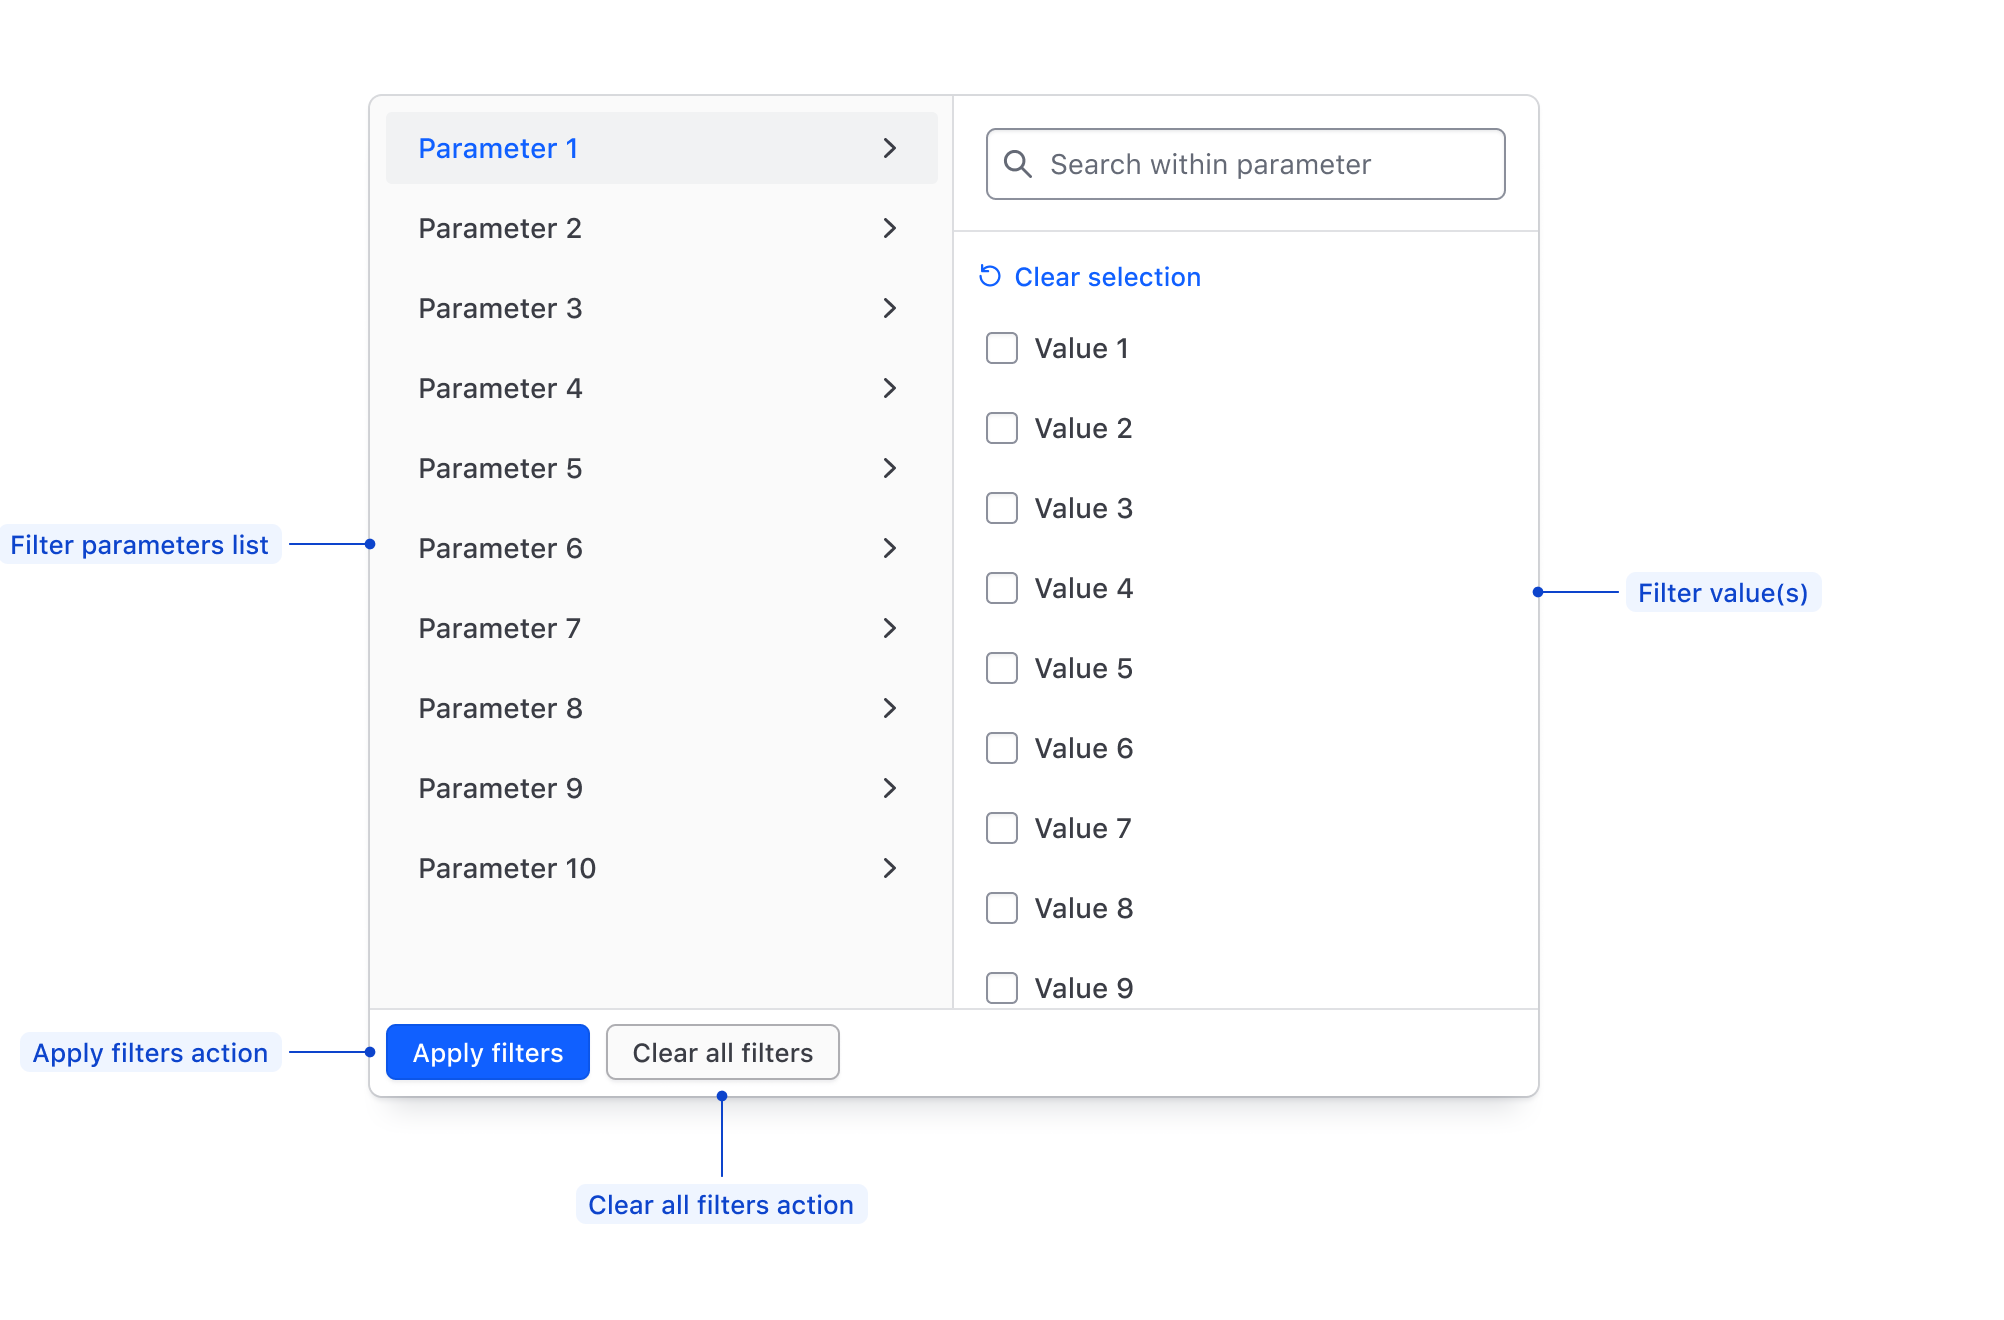
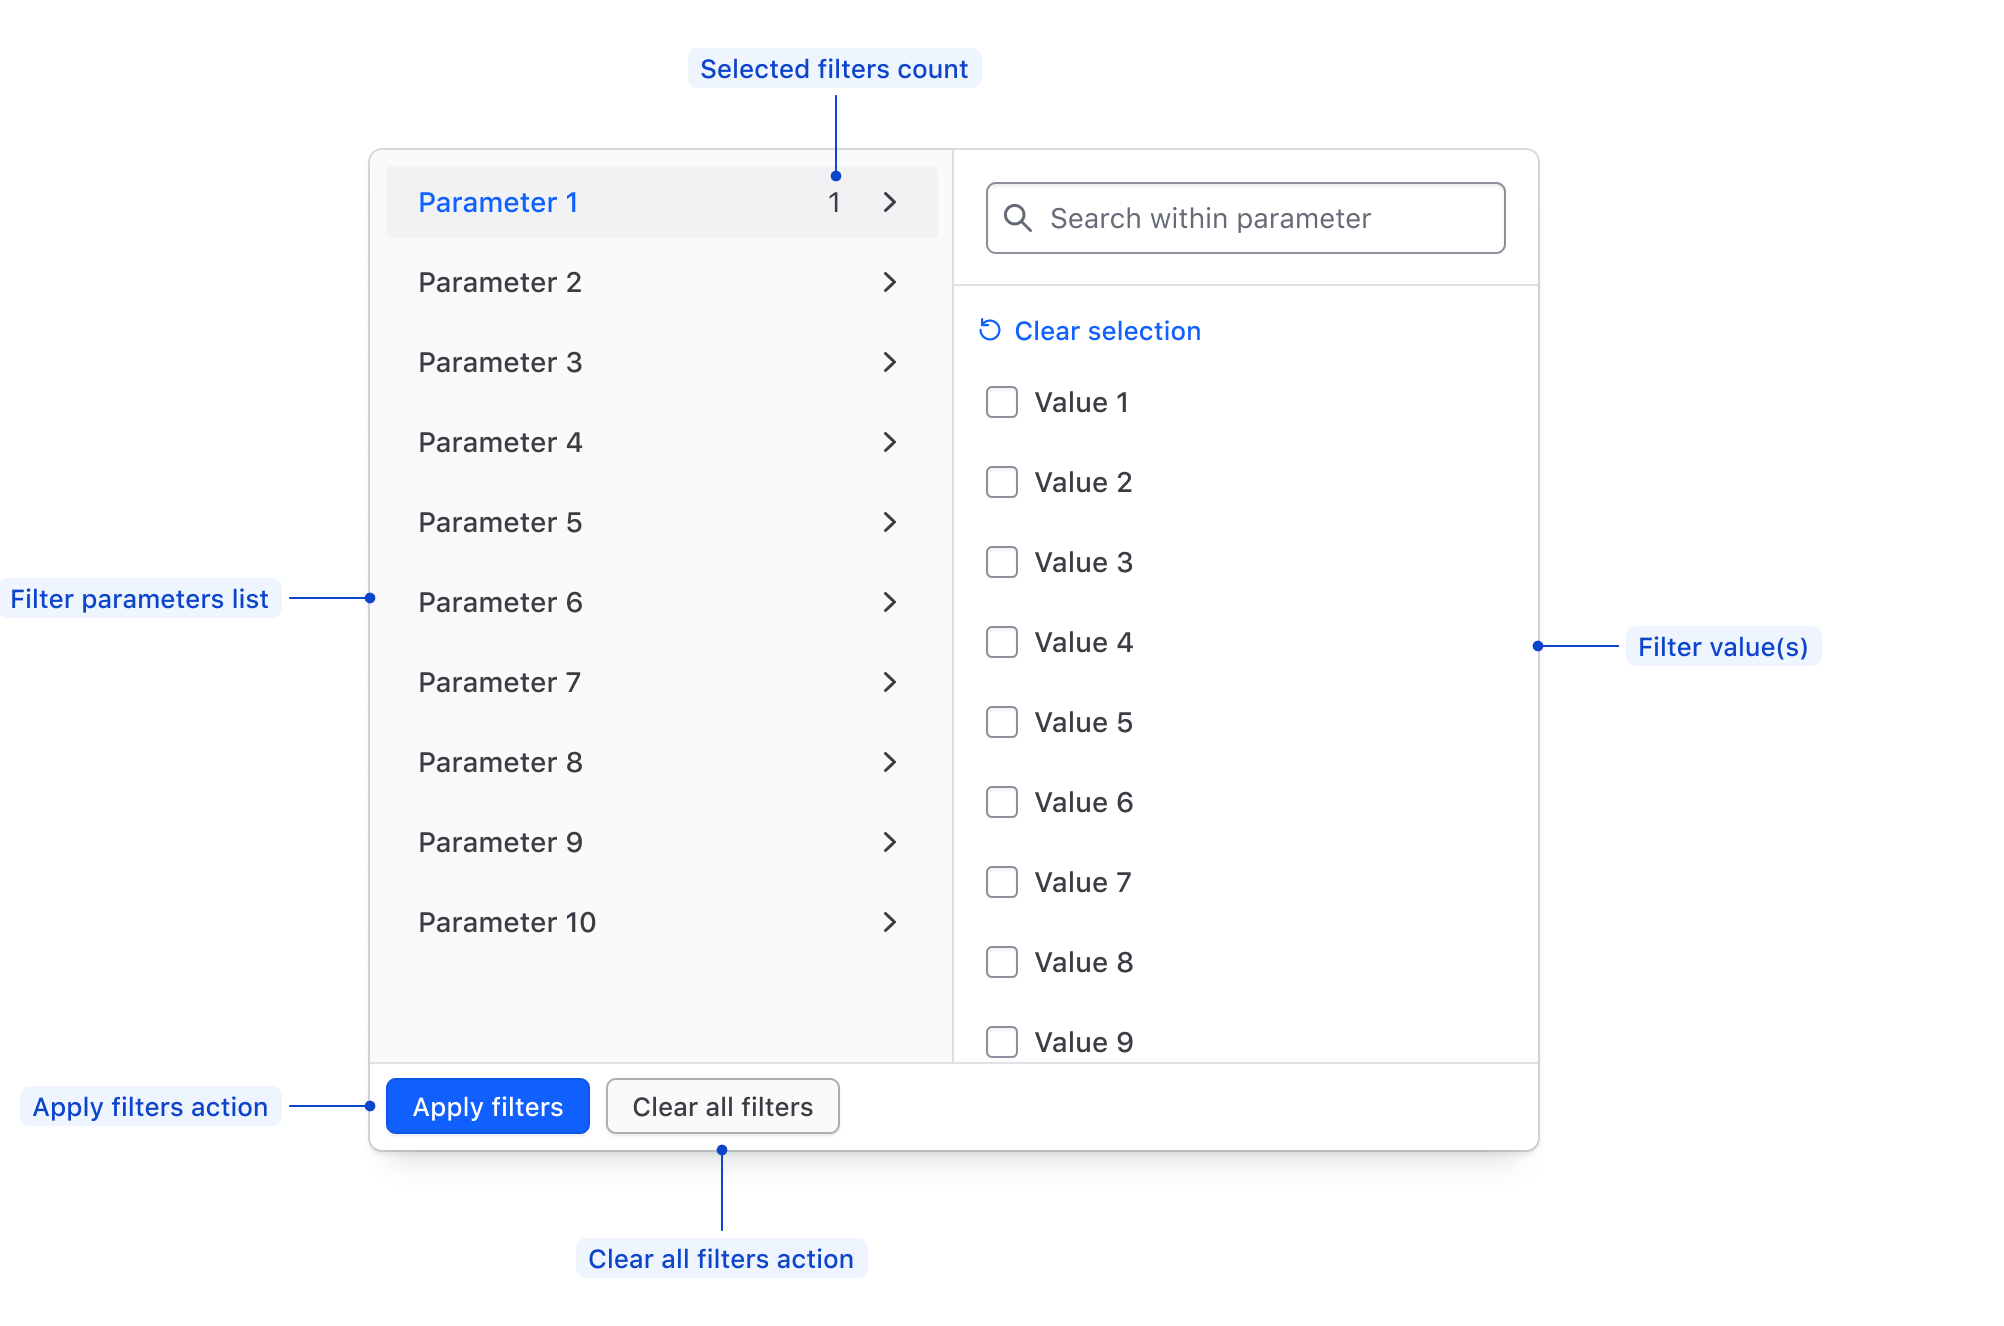
Further follow-up on cleanup tasks

diff --git a/website/docs/components/filter-bar/partials/guidelines/guidelines.md b/website/docs/components/filter-bar/partials/guidelines/guidelines.md
@@ -109,7 +109,7 @@ The Filter Dropdown is responsible for the selection and application of filters 
 
 ![](/assets/components/filter-bar/filter-bar-dropdown-open.png)
 
-Which filtering method to use depends on the data type and context. In the Figma component, select the `type` from the nested FilterValue component. In Ember, pass the filter type and method to in the configuration.
+Which filtering method to use depends on the data type and context. In the Figma component, select the `type` from the nested FilterValue component. In Ember, pass the filter type and method into the configuration.
 
 ### Multi-selection
 
@@ -123,15 +123,17 @@ Single selection supports a _mutually exclusive_ selection using radio buttons; 
 
 ![](/assets/components/filter-bar/filter-bar-dropdown-single-selection.png)
 
-### Numbers, dates, and times
+### Numbers, dates, times, and datetimes
 
-Filtering by numerical values, dates, and times is handled through the combination of an operator (greater than, less than, before, etc.) and an input field or grouping of input fields. This filtering method is best suited for range-based filtering; e.g., filtering by results relationally compared to the value or range of values.
+Filtering by numerical values, dates, times, and datetimes is handled through the combination of an operator (greater than, less than, before, etc.) and an input field or grouping of input fields. This filtering method is best suited for range-based filtering; e.g., filtering by results relationally compared to the value or range of values.
 
 ![](/assets/components/filter-bar/filter-bar-dropdown-numerical-filter.png)
 
 ![](/assets/components/filter-bar/filter-bar-dropdown-date-filter.png)
 
 ![](/assets/components/filter-bar/filter-bar-dropdown-time-filter.png)
+
+![](/assets/components/filter-bar/filter-bar-dropdown-datetime-filter.png)
 
 For a full list of supported operators visit the [specifications](/components/filter-bar?tab=specifications#value-input-operators) page.
 

diff --git a/website/docs/components/filter-bar/partials/specifications/anatomy.md b/website/docs/components/filter-bar/partials/specifications/anatomy.md
@@ -30,6 +30,7 @@ The Filter Dropdown anatomy is dependent on the filter method and is dependent o
 | Filter value(s) | Required; Displays available values within a parameter for selection, or allows the input of custom values. |
 | Apply Filters action | Required if the filtering method is "per-filter". Applies the filters selected in either the values list or the values input. |
 | Clear all filters action | Required; Clears the selection of filters across all parameters. |
+| Selected filters count | Displays the number of values selected in a parameter. |
 
 #### Filter value selection
 
